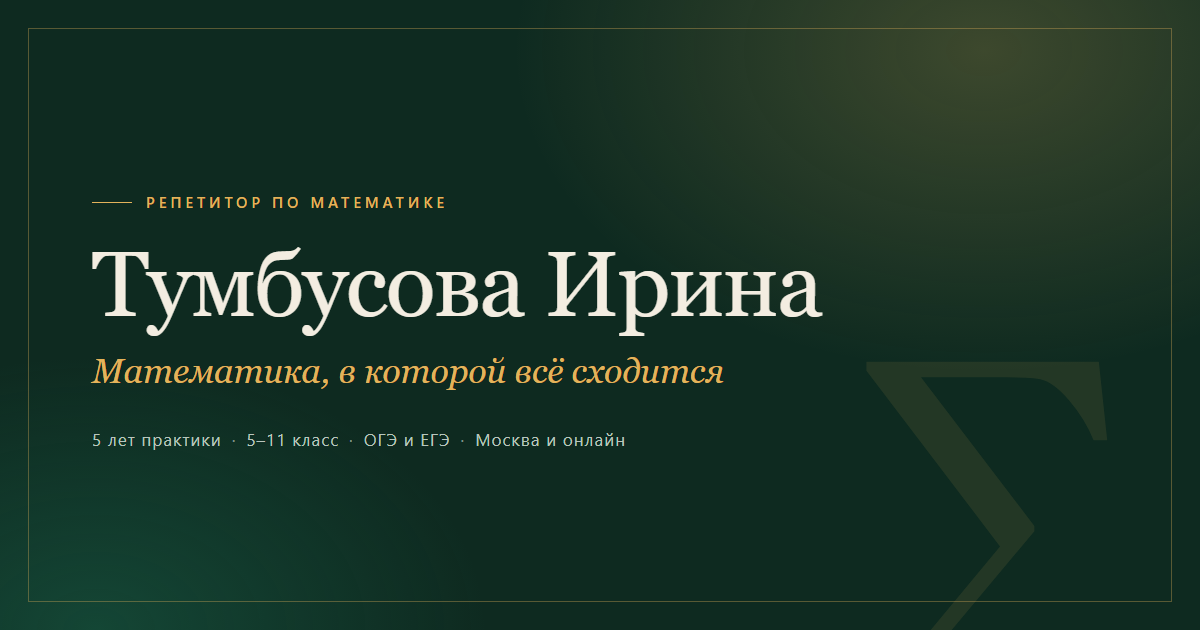
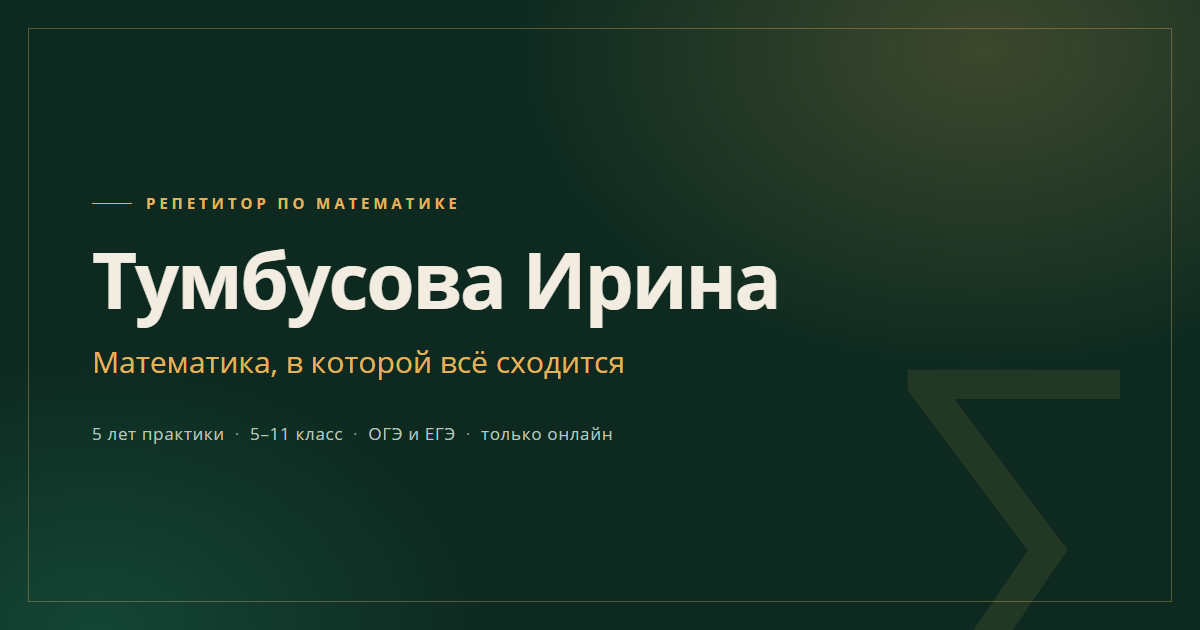
Правки: образование, онлайн и Teams, четыре формата с ценами, форма отключена

diff --git a/index.html b/index.html
@@ -4,7 +4,7 @@
   <meta charset="UTF-8">
   <meta name="viewport" content="width=device-width, initial-scale=1">
   <title>Тумбусова Ирина — репетитор по математике</title>
-  <meta name="description" content="Репетитор по математике для 5–11 классов: подготовка к ОГЭ и ЕГЭ, закрытие пробелов, онлайн и офлайн. Скидка 50% на первое занятие.">
+  <meta name="description" content="Репетитор по математике для 5–11 классов: подготовка к ОГЭ и ЕГЭ, закрытие пробелов. Занятия только онлайн, в Microsoft Teams. Скидка 50% на первое занятие.">
   <meta name="theme-color" content="#F7F3EA">
 
   <!-- Превью ссылки в мессенджерах и соцсетях -->
@@ -57,7 +57,7 @@
     <section class="hero">
       <div class="container hero__grid">
         <div class="hero__text">
-          <p class="label">Репетитор по математике · Москва и онлайн</p>
+          <p class="label">Репетитор по математике · только онлайн</p>
 
           <h1>Математика, в&nbsp;которой наконец <em>всё сходится</em></h1>
 
@@ -116,9 +116,8 @@
           </p>
 
           <ul class="about__list">
-            <li>Томский политехнический университет (ТПУ) — бакалавриат, окончен</li>
-            <li>Сколковский институт науки и технологий (Сколтех) — магистратура, обучение продолжается</li>
-            <li>Специализация — школьная математика, ОГЭ и ЕГЭ</li>
+            <li>Национальный исследовательский Томский политехнический университет (НИ ТПУ) — бакалавриат и магистратура</li>
+            <li>Сколковский институт науки и технологий (Сколтех) — аспирантура</li>
           </ul>
         </div>
       </div>
@@ -129,11 +128,10 @@
       <div class="container">
         <div class="section__head">
           <p class="label">02 — Занятия</p>
-          <h2>Три формата — под&nbsp;разные задачи</h2>
+          <h2>Четыре формата — под&nbsp;разные задачи</h2>
           <p class="section__lead">
-            Онлайн или в кабинете в центре Москвы. Все занятия идут 60 минут.
+            Занятия проходят онлайн, в Microsoft Teams. Одно занятие длится 90 минут.
           </p>
-          <p class="formats__price"><strong>2 500 ₽</strong> за занятие 60 минут</p>
         </div>
 
         <div class="cards">
@@ -147,36 +145,54 @@
             <ul class="card__list">
               <li>5–9 класс</li>
               <li>Домашние задания с проверкой</li>
-              <li>Раз в месяц — отчёт родителям</li>
+              <li>90 минут</li>
             </ul>
+            <p class="card__price">1 500 ₽ <span>за занятие</span></p>
           </article>
 
-          <article class="card card--featured">
+          <article class="card">
             <p class="card__num">02</p>
             <h3>Подготовка к ОГЭ</h3>
             <p class="card__text">
-              Системная подготовка с сентября: теория, задачи и пробные экзамены
-              в реальном формате.
+              Стартуем с лета, чтобы пройти программу без спешки. Раз в три месяца —
+              пробный экзамен в реальном формате.
             </p>
             <ul class="card__list">
               <li>9 класс</li>
-              <li>Пробные экзамены каждый месяц</li>
-              <li>Разбор всех типов заданий</li>
+              <li>Старт — с лета</li>
+              <li>Пробник раз в три месяца</li>
             </ul>
+            <p class="card__price">2 000 ₽ <span>за занятие</span></p>
           </article>
 
           <article class="card">
             <p class="card__num">03</p>
-            <h3>Подготовка к ЕГЭ</h3>
+            <h3>10 класс и непрофильный ЕГЭ</h3>
+            <p class="card__text">
+              Спокойно проходим программу 10 класса и готовимся к базовому экзамену
+              без лишней теории.
+            </p>
+            <ul class="card__list">
+              <li>10 класс</li>
+              <li>Базовая математика</li>
+              <li>Личный план до экзамена</li>
+            </ul>
+            <p class="card__price">2 500 ₽ <span>за занятие</span></p>
+          </article>
+
+          <article class="card">
+            <p class="card__num">04</p>
+            <h3>Профильный ЕГЭ</h3>
             <p class="card__text">
               Профильный уровень: сложные задачи, стратегия экзамена и работа
               над скоростью.
             </p>
             <ul class="card__list">
-              <li>10–11 класс</li>
+              <li>11 класс</li>
               <li>Профильная математика</li>
-              <li>Личный план до экзамена</li>
+              <li>Разбор сложных задач</li>
             </ul>
+            <p class="card__price">3 000 ₽ <span>за занятие</span></p>
           </article>
         </div>
       </div>
@@ -188,6 +204,10 @@
         <div class="section__head">
           <p class="label">03 — Как проходят занятия</p>
           <h2>К каждому ученику — индивидуальный подход</h2>
+          <p class="section__lead">
+            Занятия идут в Microsoft Teams: интерактивная доска, запись встречи
+            и все материалы остаются у ученика.
+          </p>
         </div>
 
         <ol class="steps">
@@ -227,8 +247,8 @@
             <p class="label">04 — Запись</p>
             <h2>Первый урок — со скидкой 50%</h2>
             <p class="signup__lead">
-              Оставьте имя и телефон — перезвоню в течение дня, задам пару вопросов
-              и предложу удобное время.
+              Напишите в Telegram или позвоните — отвечу в течение дня, задам пару
+              вопросов и предложу удобное время.
             </p>
 
             <ul class="signup__contacts">
@@ -238,6 +258,14 @@
           </div>
 
           <div class="signup__form">
+            <div class="signup__cta">
+              <p>Записаться можно в Telegram или по телефону. Отвечу в течение дня.</p>
+              <a class="btn btn--primary btn--block" href="https://t.me/irinatumbusova">Написать в Telegram</a>
+              <a class="btn btn--outline btn--block" href="tel:+79609707747">Позвонить: +7 960 970-77-47</a>
+            </div>
+
+            <!-- Форма записи временно отключена: нужно урегулировать вопросы по 152-ФЗ.
+                 Чтобы вернуть — уберите комментарий вокруг формы и блок .signup__cta выше.
             <form class="form" id="signup-form" novalidate>
               <div class="form__body">
                 <div class="field">
@@ -290,6 +318,7 @@
                 <button class="btn btn--outline btn--block" type="button" data-reset-form>Отправить ещё одну заявку</button>
               </div>
             </form>
+            -->
           </div>
         </div>
       </div>
@@ -303,7 +332,7 @@
         <span class="brand__mark" aria-hidden="true">
           <img src="icon.jpg" alt="" width="36" height="36">
         </span>
-        <p>Тумбусова Ирина<br><small>репетитор по математике · Москва и онлайн</small></p>
+        <p>Тумбусова Ирина<br><small>репетитор по математике · только онлайн</small></p>
       </div>
 
       <nav class="footer__nav" aria-label="Навигация в подвале">

diff --git a/styles.css b/styles.css
@@ -292,18 +292,17 @@ a:focus-visible {
   margin-bottom: 16px;
 }
 
-.formats__price {
-  margin: 18px 0 0;
-  font-size: 13.5px;
-  color: var(--muted);
+.signup__cta {
+  display: flex;
+  flex-direction: column;
+  gap: 10px;
 }
 
-.formats__price strong {
-  margin-right: 4px;
-  font-family: var(--font-display);
-  font-size: 1.5rem;
-  font-weight: 700;
-  color: var(--ink);
+.signup__cta p {
+  margin: 0 0 8px;
+  font-size: 14px;
+  line-height: 1.6;
+  color: var(--body);
 }
 
 /* Портрет */
@@ -462,14 +461,14 @@ a:focus-visible {
 /* ---------- Форматы ---------- */
 .cards {
   display: grid;
-  grid-template-columns: repeat(3, 1fr);
-  gap: 16px;
+  grid-template-columns: repeat(4, 1fr);
+  gap: 14px;
 }
 
 .card {
   display: flex;
   flex-direction: column;
-  padding: 24px 22px;
+  padding: 22px 20px;
   background: var(--surface);
   border: 1px solid var(--border);
   border-radius: var(--radius);
@@ -480,13 +479,6 @@ a:focus-visible {
   border-color: var(--emerald);
   box-shadow: 0 10px 30px -18px rgba(14, 42, 32, .45);
   transform: translateY(-2px);
-}
-
-.card--featured {
-  border-color: rgba(31, 122, 92, .5);
-  background:
-    linear-gradient(180deg, rgba(31, 122, 92, .05), transparent 55%),
-    var(--surface);
 }
 
 .card__num {
@@ -505,9 +497,27 @@ a:focus-visible {
 }
 
 .card__list {
-  margin: 0;
+  margin: 0 0 18px;
   padding: 0;
   list-style: none;
+}
+
+.card__price {
+  margin: auto 0 0;
+  padding-top: 16px;
+  border-top: 1px solid var(--border-soft);
+  font-size: 1.2rem;
+  font-weight: 700;
+  color: var(--ink);
+}
+
+.card__price span {
+  display: block;
+  margin-top: 3px;
+  font-size: 11px;
+  font-weight: 400;
+  letter-spacing: .04em;
+  color: var(--muted);
 }
 
 .card__list li {
@@ -833,8 +843,8 @@ a:focus-visible {
   }
 
   .cards {
-    grid-template-columns: 1fr;
-    max-width: 520px;
+    grid-template-columns: repeat(2, 1fr);
+    max-width: 720px;
   }
 
   .steps {
@@ -866,6 +876,11 @@ a:focus-visible {
 @media (max-width: 700px) {
   .container {
     width: min(var(--container), 100% - 32px);
+  }
+
+  .cards {
+    grid-template-columns: 1fr;
+    max-width: 520px;
   }
 
   .hero__actions .btn {

diff --git a/script.js b/script.js
@@ -1,5 +1,28 @@
 (() => {
+  /* ---------- Фото: показываем, только если файл на месте ---------- */
+  const portrait = document.querySelector('[data-portrait]');
+  if (portrait) {
+    const sources = ['photo.jpg', 'photo.jpeg', 'photo.png', 'photo.webp'];
+    let index = 0;
+
+    const tryNext = () => {
+      index += 1;
+      if (index < sources.length) {
+        portrait.src = sources[index];
+      } else {
+        portrait.remove();
+      }
+    };
+
+    portrait.addEventListener('error', tryNext);
+    if (portrait.complete && portrait.naturalWidth === 0) tryNext();
+  }
+
+  /* ---------- Форма записи ----------
+     Пока форма отключена (закомментирована в разметке), весь блок ниже не выполняется. */
   const form = document.getElementById('signup-form');
+  if (!form) return;
+
   const body = form.querySelector('.form__body');
   const success = form.querySelector('.form__success');
   const nameInput = document.getElementById('name');
@@ -139,25 +162,6 @@
     body.hidden = false;
     nameInput.focus();
   });
-
-  /* ---------- Фото: показываем, только если файл на месте ---------- */
-  const portrait = document.querySelector('[data-portrait]');
-  if (portrait) {
-    const sources = ['photo.jpg', 'photo.jpeg', 'photo.png', 'photo.webp'];
-    let index = 0;
-
-    const tryNext = () => {
-      index += 1;
-      if (index < sources.length) {
-        portrait.src = sources[index];
-      } else {
-        portrait.remove();
-      }
-    };
-
-    portrait.addEventListener('error', tryNext);
-    if (portrait.complete && portrait.naturalWidth === 0) tryNext();
-  }
 
   /* ---------- CTA: фокус на форме ---------- */
   document.querySelectorAll('[data-focus-form]').forEach((link) => {

diff --git a/README.md b/README.md
@@ -35,11 +35,11 @@ python -m http.server 8000
 
 ## Секции
 
-1. Первый экран — заголовок, цена, кнопки, портрет.
+1. Первый экран — заголовок, кнопки, портрет.
 2. О репетиторе — подход, образование, цитата.
-3. Занятия — три формата с составом.
+3. Занятия — четыре формата с ценами.
 4. Как проходят занятия — диагностика, программа, закрепление.
-5. Запись — контакты и форма (ФИО + телефон).
+5. Запись — контакты; форма временно отключена (см. комментарий в разметке).
 
 ## Фотография
 
